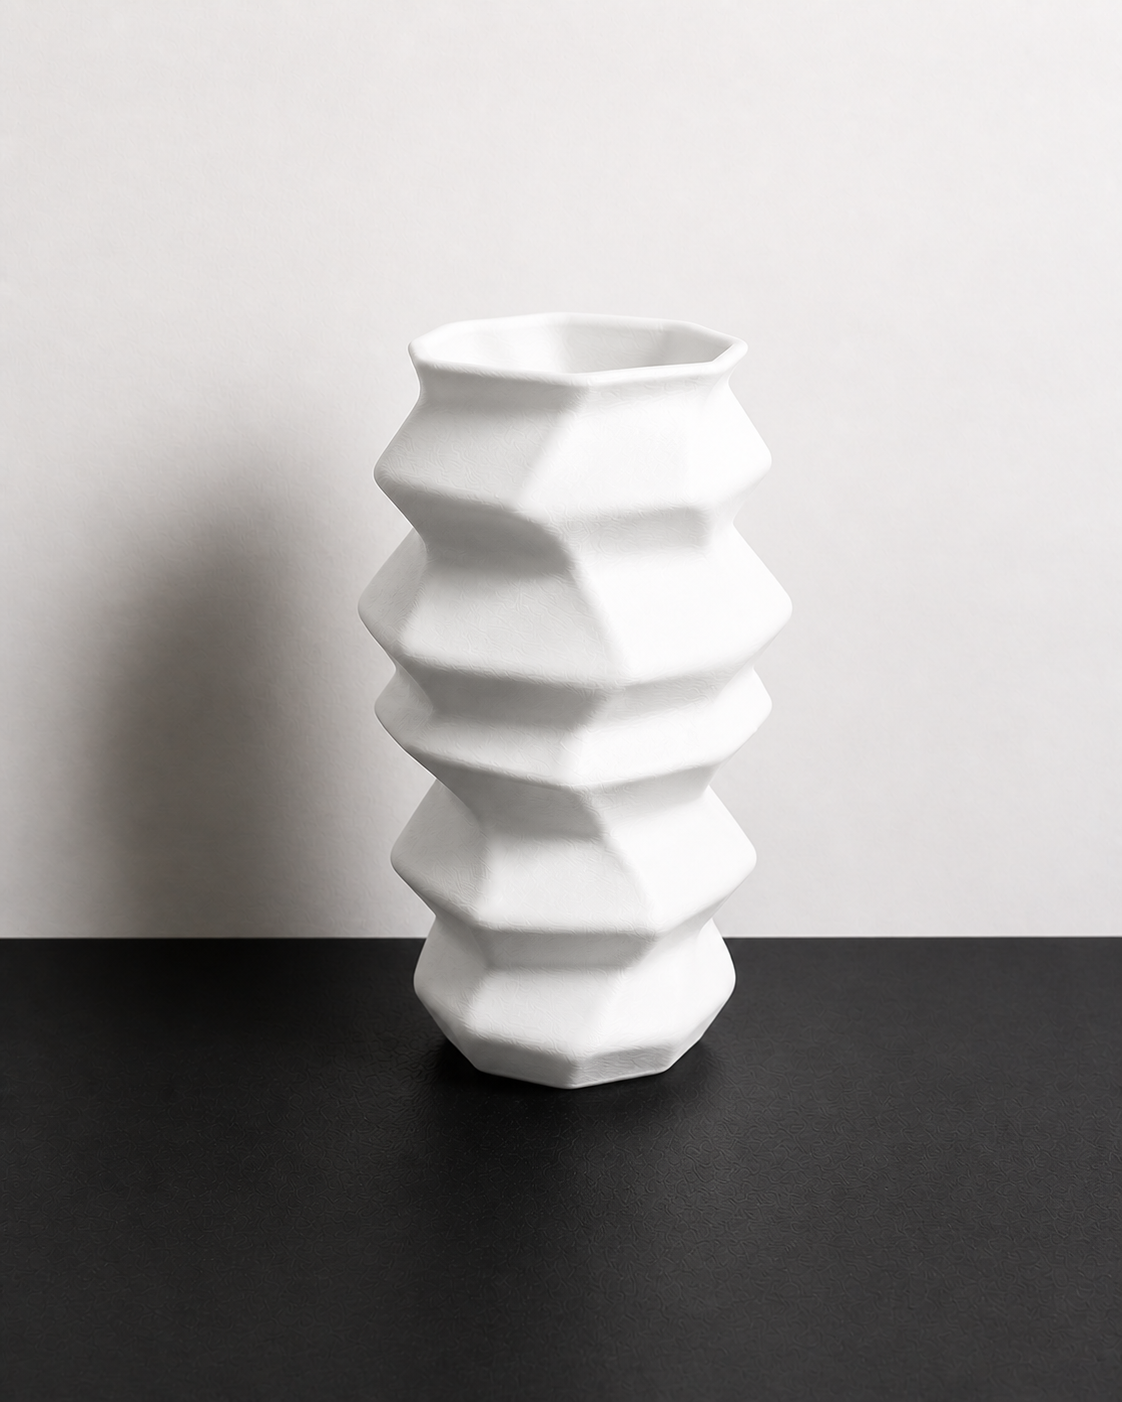
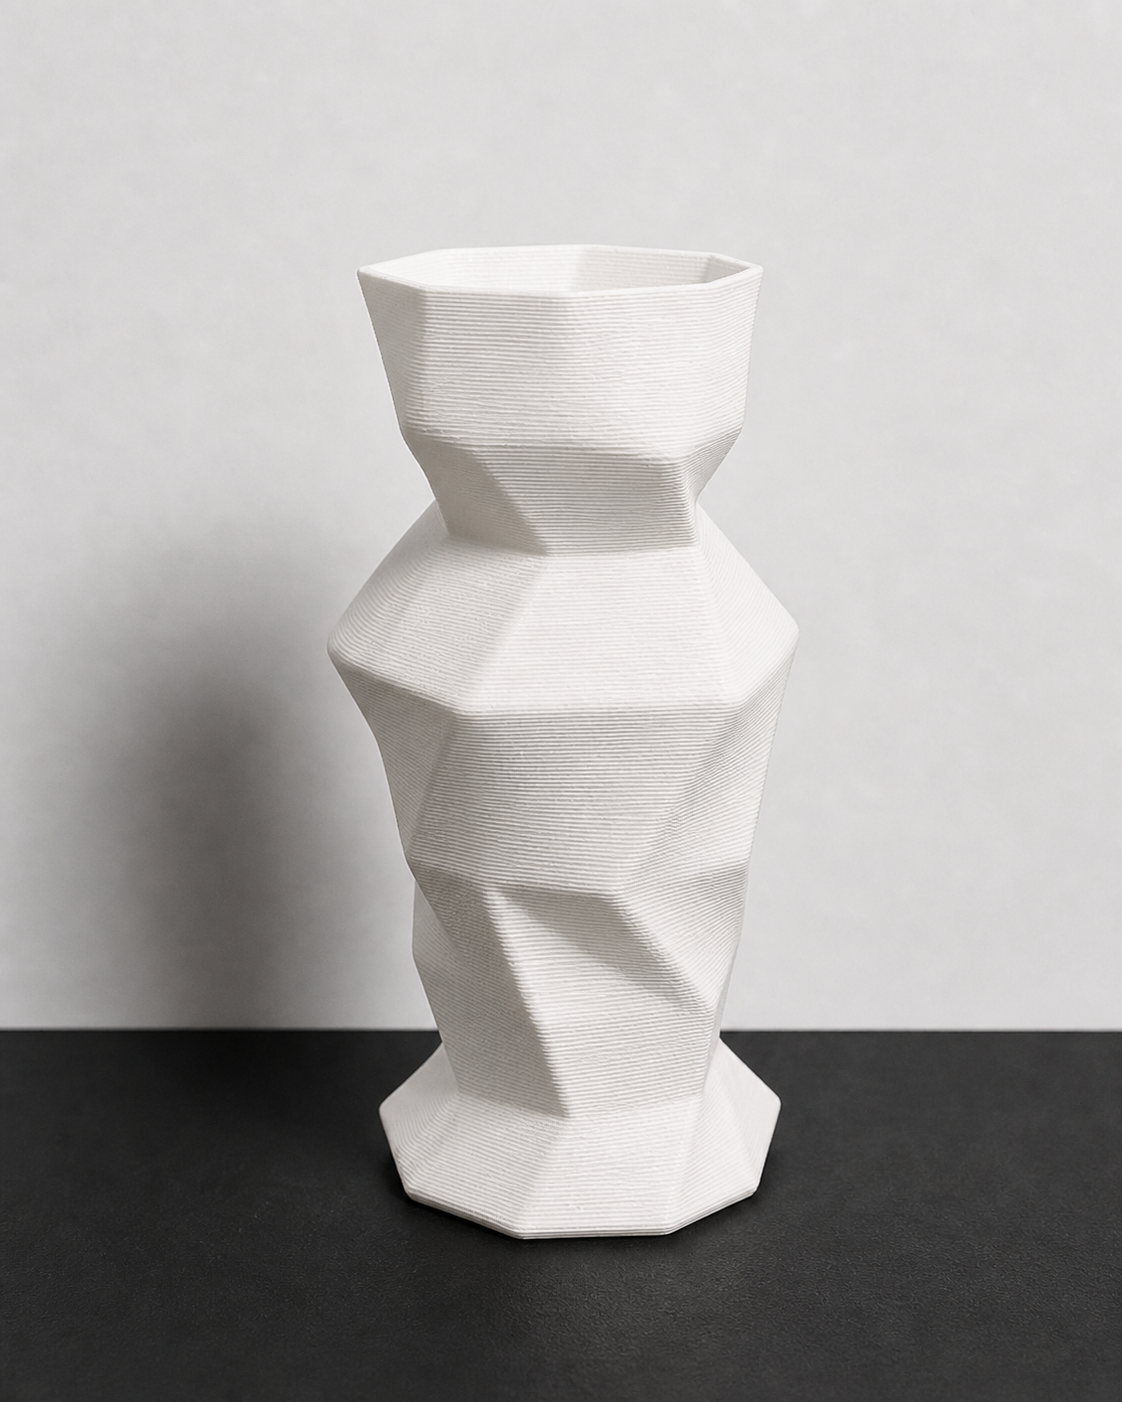
1.1.21 Fix: Ajoute le sigle Vaso devant le surtitre du hero et le bloc atelier

Changed region(s): [[0.0, 0.184, 1.0, 0.8894]]

diff --git a/src/App.tsx b/src/App.tsx
@@ -4,6 +4,7 @@ import { useUIStore } from "./store/ui-store";
 import { PLA_COLORS } from "./shop/shop-colors";
 import { SHOP_ORDER_FORM_ACTION, SHOP_ORDER_FORM_METHOD } from "./shop/shop-config";
 import { useShopStore } from "./shop/shop-store";
+import vasoMark from "./assets/shop/vaso-mark.png";
 import "./App.css";
 
 const HERO_GALLERY_IMAGE_MODULES = import.meta.glob(
@@ -215,7 +216,10 @@ function App() {
             <div className="shop-copy-top">
               <div className="shop-copy-main">
                 <p className="shop-kicker">
-                  <span>VASO SHOP</span>
+                  <span className="shop-title-with-mark">
+                    <img className="shop-title-mark" src={vasoMark} alt="" aria-hidden="true" />
+                    <span>VASO SHOP</span>
+                  </span>
                   <span className="shop-kicker-version">{`v${APP_VERSION}`}</span>
                 </p>
                 <h1>Générez un vase et commandez-le en quelques secondes.</h1>
@@ -259,7 +263,9 @@ function App() {
           <aside className="shop-hero-note shop-current-card">
             <div className="shop-info-head shop-info-head-inline">
               <p className="shop-panel-title">Modèle actuel</p>
-              <span className="shop-live-badge">Disponible à la commande</span>
+              <button className="shop-live-badge" type="button" onClick={handleOpenOrder}>
+                Disponible à la commande
+              </button>
             </div>
 
             <div className="shop-stats">
@@ -347,7 +353,10 @@ function App() {
 
             <aside className="shop-info-card shop-workshop-card">
               <div className="shop-info-head">
-                <p className="shop-panel-title">Atelier</p>
+                <p className="shop-panel-title shop-title-with-mark">
+                  <img className="shop-title-mark" src={vasoMark} alt="" aria-hidden="true" />
+                  <span>Atelier</span>
+                </p>
               </div>
 
               <p className="shop-sublead shop-workshop-note">

diff --git a/src/App.css b/src/App.css
@@ -68,6 +68,21 @@
   letter-spacing: 0.18em;
 }
 
+.shop-title-with-mark {
+  display: inline-flex;
+  align-items: center;
+  gap: 7px;
+}
+
+.shop-title-mark {
+  width: 15px;
+  height: 15px;
+  object-fit: contain;
+  mix-blend-mode: screen;
+  opacity: 0.96;
+  flex: 0 0 auto;
+}
+
 .shop-kicker-version {
   color: rgb(143 83 49 / 28%);
   font-size: 0.68rem;
@@ -377,13 +392,24 @@
   justify-self: start;
   flex: 0 0 auto;
   padding: 7px 10px;
+  border: 0;
   border-radius: 999px;
   background: rgb(73 124 101 / 10%);
   color: #36644f;
   font-size: 0.7rem;
   font-weight: 800;
   letter-spacing: 0.08em;
+  cursor: pointer;
   text-transform: uppercase;
+  transition:
+    transform 0.18s ease,
+    background-color 0.18s ease,
+    color 0.18s ease;
+}
+
+.shop-live-badge:hover {
+  transform: translateY(-1px);
+  background: rgb(73 124 101 / 14%);
 }
 
 .shop-panel-title {

diff --git a/Changelog.md b/Changelog.md
@@ -7,6 +7,11 @@ et ce projet suit un versioning de type **SemVer**.
 
 ---
 
+## [1.1.21] - 2026-05-04
+
+### Modifié
+- Ajoute le sigle Vaso devant le surtitre du hero et le bloc atelier
+
 ## [1.1.20] - 2026-05-03
 
 ### Modifié
